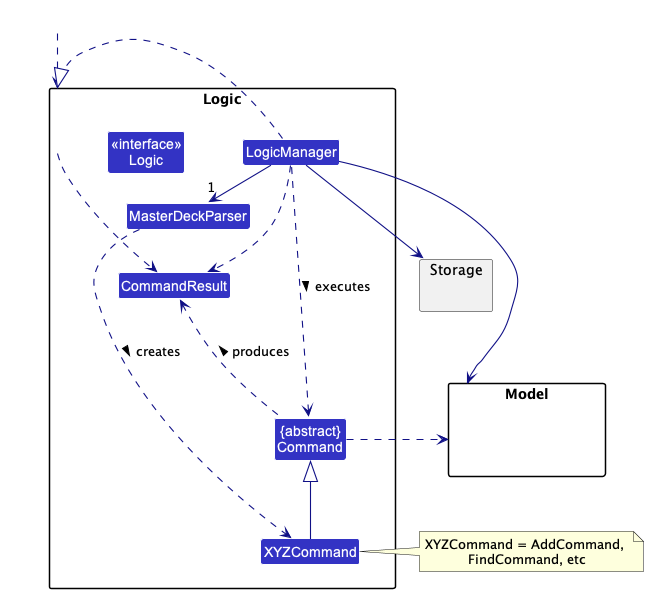
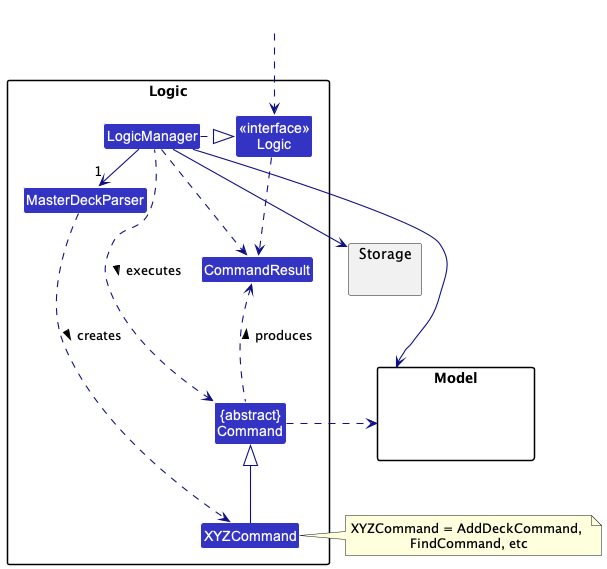
Update logic class diagram

diff --git a/docs/DeveloperGuide.md b/docs/DeveloperGuide.md
@@ -24,7 +24,7 @@ Refer to the guide [_Setting up and getting started_](SettingUp.md).
 
 <div markdown="span" class="alert alert-primary">
 
-:bulb: **Tip:** The `.puml` files used to create diagrams in this document can be found in the [diagrams](https://github.com/se-edu/addressbook-level3/tree/master/docs/diagrams/) folder. Refer to the [_PlantUML Tutorial_ at se-edu/guides](https://se-education.org/guides/tutorials/plantUml.html) to learn how to create and edit diagrams.
+:bulb: **Tip:** The `.puml` files used to create diagrams in this document can be found in the [diagrams](https://github.com/AY2223S2-CS2103T-W11-3/tp/tree/master/docs/diagrams) folder. Refer to the [_PlantUML Tutorial_ at se-edu/guides](https://se-education.org/guides/tutorials/plantUml.html) to learn how to create and edit diagrams.
 </div>
 
 ### Architecture
@@ -37,7 +37,7 @@ Given below is a quick overview of main components and how they interact with ea
 
 **Main components of the architecture**
 
-**`Main`** has two classes called [`Main`](https://github.com/se-edu/addressbook-level3/tree/master/src/main/java/seedu/address/Main.java) and [`MainApp`](https://github.com/se-edu/addressbook-level3/tree/master/src/main/java/seedu/address/MainApp.java). It is responsible for,
+**`Main`** has two classes called [`Main`](https://github.com/AY2223S2-CS2103T-W11-3/tp/blob/master/src/main/java/seedu/address/Main.java) and [`MainApp`](https://github.com/AY2223S2-CS2103T-W11-3/tp/blob/master/src/main/java/seedu/address/MainApp.java). It is responsible for,
 * At app launch: Initializes the components in the correct sequence, and connects them up with each other.
 * At shut down: Shuts down the components and invokes cleanup methods where necessary.
 
@@ -70,7 +70,7 @@ The sections below give more details of each component.
 
 ### UI component
 
-The **API** of this component is specified in [`Ui.java`](https://github.com/se-edu/addressbook-level3/tree/master/src/main/java/seedu/address/ui/Ui.java)
+The **API** of this component is specified in [`Ui.java`](https://github.com/AY2223S2-CS2103T-W11-3/tp/blob/master/src/main/java/seedu/address/ui/Ui.java)
 
 ![Structure of the UI Component](images/UiClassDiagram.png)
 
@@ -87,7 +87,7 @@ The `UI` component,
 
 ### Logic component
 
-**API** : [`Logic.java`](https://github.com/se-edu/addressbook-level3/tree/master/src/main/java/seedu/address/logic/Logic.java)
+**API** : [`Logic.java`](https://github.com/AY2223S2-CS2103T-W11-3/tp/blob/master/src/main/java/seedu/address/logic/Logic.java)
 
 Here's a (partial) class diagram of the `Logic` component:
 
